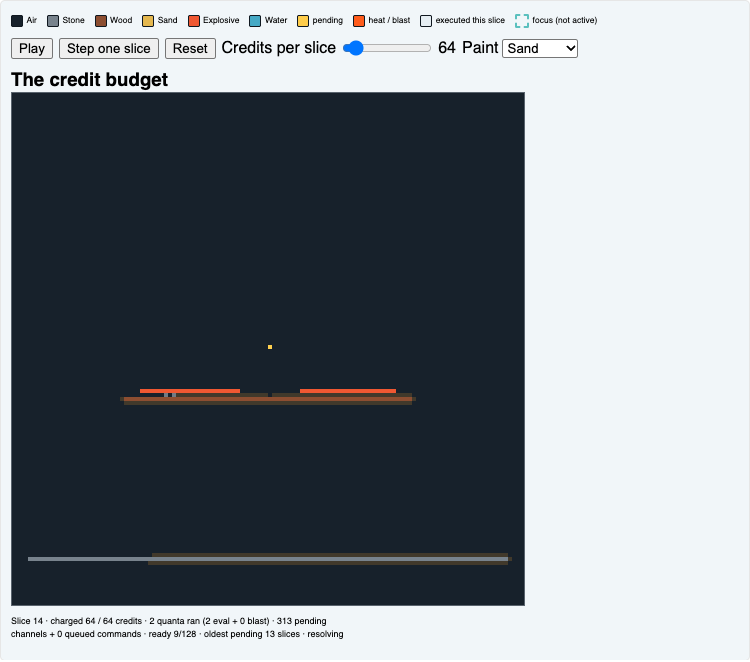
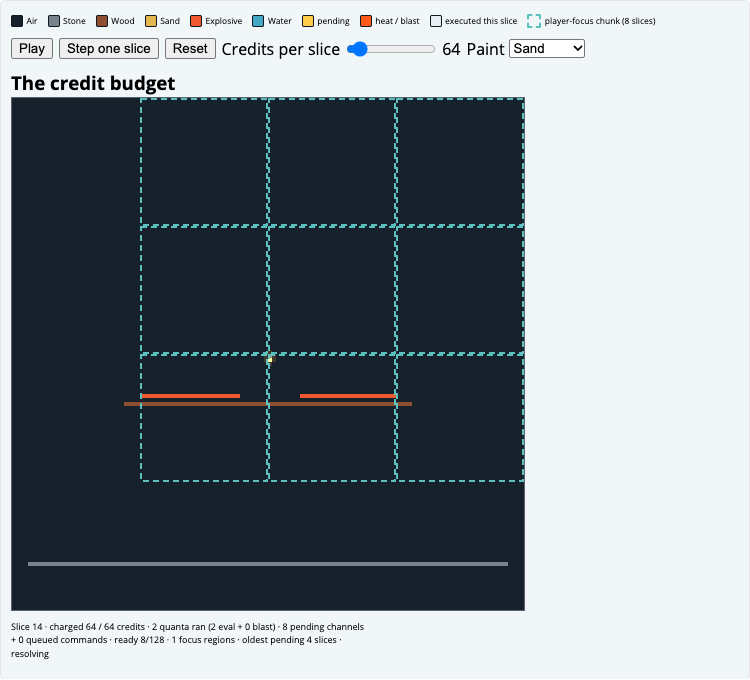
docs(tour): visualize active player focus
Metadata
- Follow-up: cascade-docs-tour-20261005

Problem
- Player-focus styling was still shown as a placeholder even after the scheduler API landed.

Solution
- Export active focus regions from the real sim to WASM and draw dashed chunk boundaries after admitted ignition.
- Add a live player-focus widget and screenshot, and verify focus activation in the headless tour check.

diff --git a/docs/tour/tour.js b/docs/tour/tour.js
@@ -13,7 +13,7 @@ function makeLegend(root) {
     ["pending", "#ffcd4b", "overlay"],
     ["heat / blast", "#ff5c1c", "overlay"],
     ["executed this slice", "#e6eef3", "overlay"],
-    ["focus (not active)", "#5bc0be", "focus"],
+    ["player-focus chunk (8 slices)", "#5bc0be", "focus"],
   ];
   for (const [name, color, kind] of entries) {
     const item = document.createElement("li");
@@ -61,19 +61,32 @@ function draw(view, world, history) {
   const { canvas, context, status } = view;
   const pixels = world.cells();
   const image = context.createImageData(world.width(), world.height());
-  for (let i = 0, p = 0; i < pixels.length; i += 4, p += 4) {
+  const focusedChunks = new Set();
+  for (let i = 0, p = 0; i < pixels.length; i += 5, p += 4) {
     const rgb = colors[pixels[i]] || colors[0];
     image.data[p] = rgb[0]; image.data[p + 1] = rgb[1]; image.data[p + 2] = rgb[2]; image.data[p + 3] = 255;
     if (pixels[i + 2]) { image.data[p] = Math.min(255, image.data[p] + 42); image.data[p + 1] = Math.min(255, image.data[p + 1] + 24); }
     if (pixels[i + 1]) { image.data[p] = 255; image.data[p + 1] = Math.max(72, image.data[p + 1] - pixels[i + 1] * 9); image.data[p + 2] = 22; }
     if (pixels[i + 3]) { image.data[p] = Math.min(255, image.data[p] + 90); image.data[p + 1] = Math.min(255, image.data[p + 1] + 90); image.data[p + 2] = Math.min(255, image.data[p + 2] + 90); }
+    if (pixels[i + 4]) {
+      const cell = p / 4;
+      const chunkX = Math.floor((cell % world.width()) / 32);
+      const chunkY = Math.floor(Math.floor(cell / world.width()) / 32);
+      focusedChunks.add(`${chunkX}:${chunkY}`);
+    }
   }
   view.rasterContext.putImageData(image, 0, 0);
   context.imageSmoothingEnabled = false;
   context.drawImage(view.raster, 0, 0, canvas.width, canvas.height);
+  context.save(); context.strokeStyle = "#5bc0be"; context.lineWidth = 2; context.setLineDash([6, 4]);
+  for (const chunk of focusedChunks) {
+    const [x, y] = chunk.split(":").map(Number);
+    context.strokeRect(x * 128 + 1, y * 128 + 1, 126, 126);
+  }
+  context.restore();
   history.push(world.pending() + world.queued_commands()); if (history.length > 100) history.shift();
   const complete = world.pending() === 0 && world.queued_commands() === 0;
-  status.textContent = `Slice ${world.slice()} · charged ${world.charged()} / ${world.allowed()} credits · ${world.executed_cells()} quanta ran (${world.evaluations()} eval + ${world.blasts()} blast) · ${world.pending()} pending channels + ${world.queued_commands()} queued commands · ready ${world.ready()}/${RING_CAPACITY} · oldest pending ${world.oldest_age()} slices · ${complete ? "settled" : "resolving"}`;
+  status.textContent = `Slice ${world.slice()} · charged ${world.charged()} / ${world.allowed()} credits · ${world.executed_cells()} quanta ran (${world.evaluations()} eval + ${world.blasts()} blast) · ${world.pending()} pending channels + ${world.queued_commands()} queued commands · ready ${world.ready()}/${RING_CAPACITY} · ${world.focus_regions()} focus regions · oldest pending ${world.oldest_age()} slices · ${complete ? "settled" : "resolving"}`;
 }
 
 function holdButton(button, burst) {

diff --git a/crates/web/src/lib.rs b/crates/web/src/lib.rs
@@ -1,4 +1,6 @@
-use cascade_sim::{Capacity, Command, Credits, Material, SchedulerPolicy, SubmitResult, World};
+use cascade_sim::{
+    CHUNK_SIDE, Capacity, Command, Credits, Material, SchedulerPolicy, SubmitResult, World,
+};
 use wasm_bindgen::prelude::*;
 
 const SIDE: u32 = 128;
@@ -87,9 +89,12 @@ impl TourWorld {
         )
     }
     pub fn ignite(&mut self, x: u32, y: u32) -> bool {
-        self.world
-            .cell_id(x, y)
-            .is_some_and(|cell| self.world.ignite(cell).is_ok())
+        self.world.cell_id(x, y).is_some_and(|cell| {
+            matches!(
+                self.world.submit(Command::Ignite { cell }),
+                SubmitResult::Accepted | SubmitResult::Coalesced
+            )
+        })
     }
     pub fn seed_scene(&mut self, scene: u8) {
         let w = self.width;
@@ -183,7 +188,7 @@ impl TourWorld {
         self.last_age = m.oldest_pending_age;
     }
     pub fn cells(&self) -> Vec<u8> {
-        let mut out = Vec::with_capacity((self.width * self.height * 4) as usize);
+        let mut out = Vec::with_capacity((self.width * self.height * 5) as usize);
         for y in 0..self.height {
             for x in 0..self.width {
                 let cell = self.world.cell(x, y).expect("validated grid coordinate");
@@ -192,6 +197,13 @@ impl TourWorld {
                 out.push(cell.state.max(cell.burning));
                 out.push(u8::from(self.world.cell_pending(x, y).unwrap_or(false)));
                 out.push(u8::from(self.world.cell_executed_last(id)));
+                let focused = self.world.active_focus_regions().any(|region| {
+                    let chunk_x = x / CHUNK_SIDE;
+                    let chunk_y = y / CHUNK_SIDE;
+                    (region.min_chunk_x..region.max_chunk_x).contains(&chunk_x)
+                        && (region.min_chunk_y..region.max_chunk_y).contains(&chunk_y)
+                });
+                out.push(u8::from(focused));
             }
         }
         out
@@ -240,6 +252,12 @@ impl TourWorld {
     }
     pub fn reset_done(&self) -> bool {
         !self.world.reset_in_progress()
+    }
+    pub fn focus_regions(&self) -> u32 {
+        self.world
+            .active_focus_regions()
+            .count()
+            .min(u32::MAX as usize) as u32
     }
 }
 

diff --git a/docs/tour.md b/docs/tour.md
@@ -1,13 +1,13 @@
 # Interactive feature tour
 
-These small worlds run the repository's actual `cascade-sim` compiled to WebAssembly. Each 128 by 128 world is rendered at 4 screen pixels per cell; the controls and canvases stay horizontally scrollable on narrow screens so cells do not shrink. Material swatches, pending amber, hot orange heat/blast, pale executed-this-slice highlights, and a teal dashed player-focus marker are shown in each widget legend. Focus remains inactive until its scheduler API lands. Each canvas is also shown as a checked-in image first, so the explanation remains useful before the browser module starts.
+These small worlds run the repository's actual `cascade-sim` compiled to WebAssembly. Each 128 by 128 world is rendered at 4 screen pixels per cell; the controls and canvases stay horizontally scrollable on narrow screens so cells do not shrink. Material swatches, pending amber, hot orange heat/blast, pale executed-this-slice highlights, and teal dashed outlines for active player-focus chunks are shown in each widget legend. Each canvas is also shown as a checked-in image first, so the explanation remains useful before the browser module starts.
 
 <figure>
   <img src="tour/images/cells.png" alt="A small world with sand, water, wood, and a blast">
   <figcaption>Cells and local rules: the status reports credits charged/allowed, quanta run, pending channels plus queued commands, ready slots, and oldest-pending age in slices. Pale cells are the latest slice's bounded execution sample, not a count of every cell that ran.</figcaption>
 </figure>
 
-**Palette:** Air `#17212b`, stone `#78838d`, wood `#8d4e31`, sand `#e5b84f`, explosive `#f05832`, water `#45a9c5`. Amber highlights pending channels; orange marks burning heat or pending blast energy; pale highlights the bounded sample executed in the latest slice. The focus swatch is a visual key only, not a scheduling effect.
+**Palette:** Air `#17212b`, stone `#78838d`, wood `#8d4e31`, sand `#e5b84f`, explosive `#f05832`, water `#45a9c5`. Amber highlights pending channels; orange marks burning heat or pending blast energy; pale highlights the bounded sample executed in the latest slice. Teal outlines mark chunks currently receiving focus priority after an admitted ignition action; they do not claim that every highlighted cell executed.
 
 ## Cells and local rules
 
@@ -67,15 +67,15 @@ The button admits a capped stream of repeated cell disturbances into the same fi
 <div class="tour-widget" data-scene="4" data-label="DESTROY PERFORMANCE"></div>
 
 <figure>
-  <img src="tour/images/player-focus.png" alt="A note explaining that player-focus visualization is not yet available">
-  <figcaption>The teal dashed focus legend key is reserved for player-focus visualization; focus does not currently affect scheduling.</figcaption>
+  <img src="tour/images/player-focus.png" alt="The live tour widget showing teal dashed focus-region boundaries around an admitted ignition target">
+  <figcaption>An admitted ignition focuses the target's neighboring chunk region for eight slices. Teal outlines show active priority regions; pale cell highlights separately mark the bounded sample that executed in the latest slice.</figcaption>
 </figure>
 
 ## Player focus
 
-The simulation's player-focus API is still in development. Until that API lands on `main`, this page intentionally makes no claim about preferential scheduling or focus regions.
+An admitted click-to-ignite command activates a bounded priority region around its target for eight simulation slices. This is scheduler focus, not proof that every cell in the outlined region has run. The dashed teal chunk borders show active focus; pale cell highlights show the separate bounded execution sample. Shift-click painting does not create a focus region.
 
-<div class="tour-placeholder" role="note">Player focus visualization will appear here after the focus API is available.</div>
+<div class="tour-widget" data-scene="0" data-label="Player focus"></div>
 
 <script type="module" src="tour/tour.js"></script>
 <link rel="stylesheet" href="tour/tour.css">
